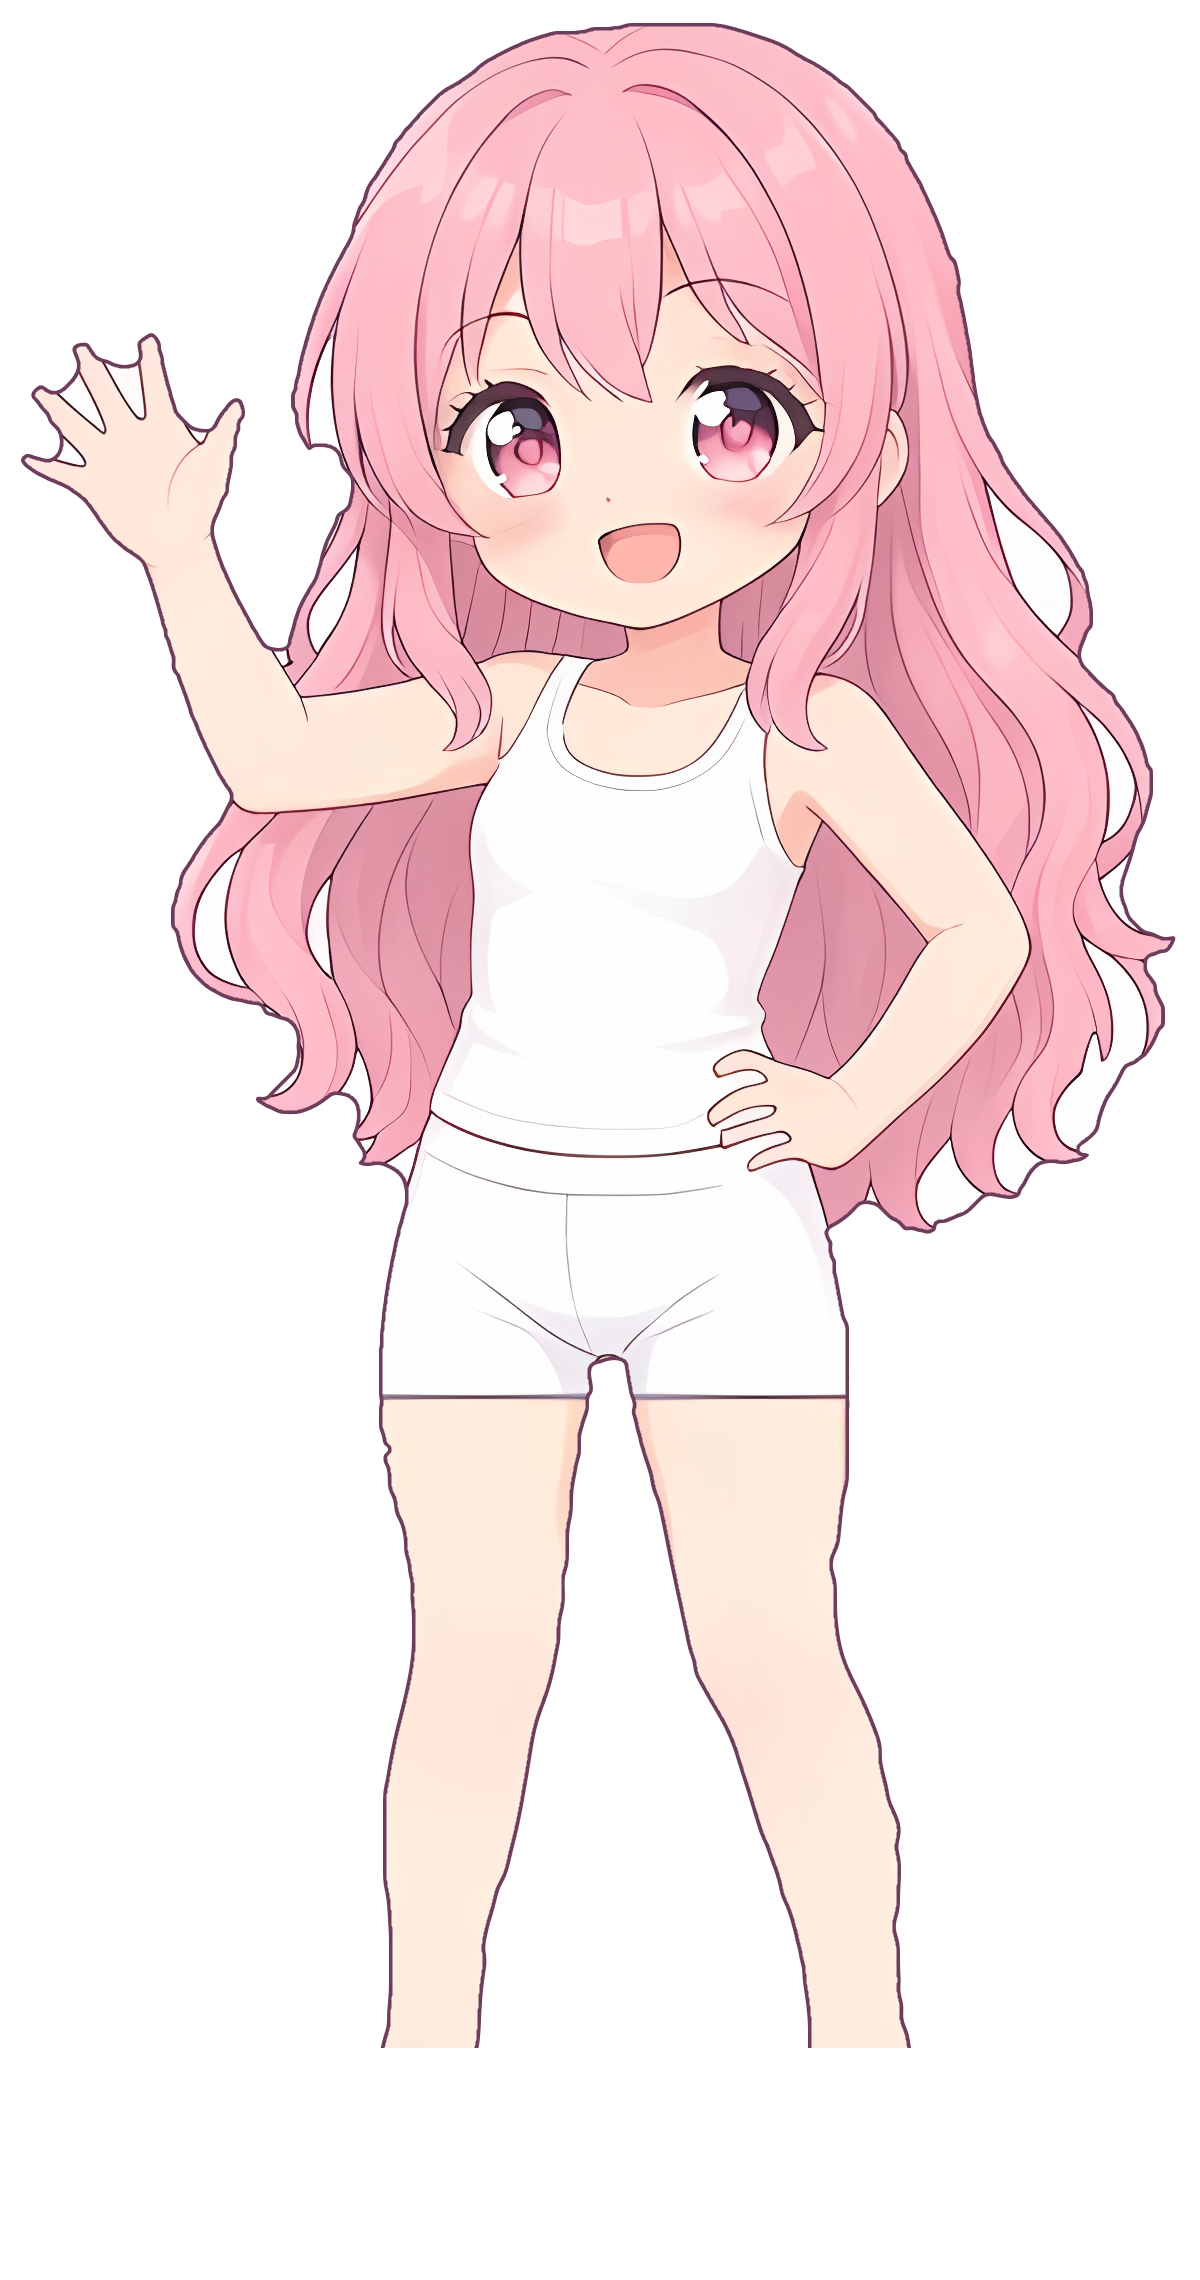
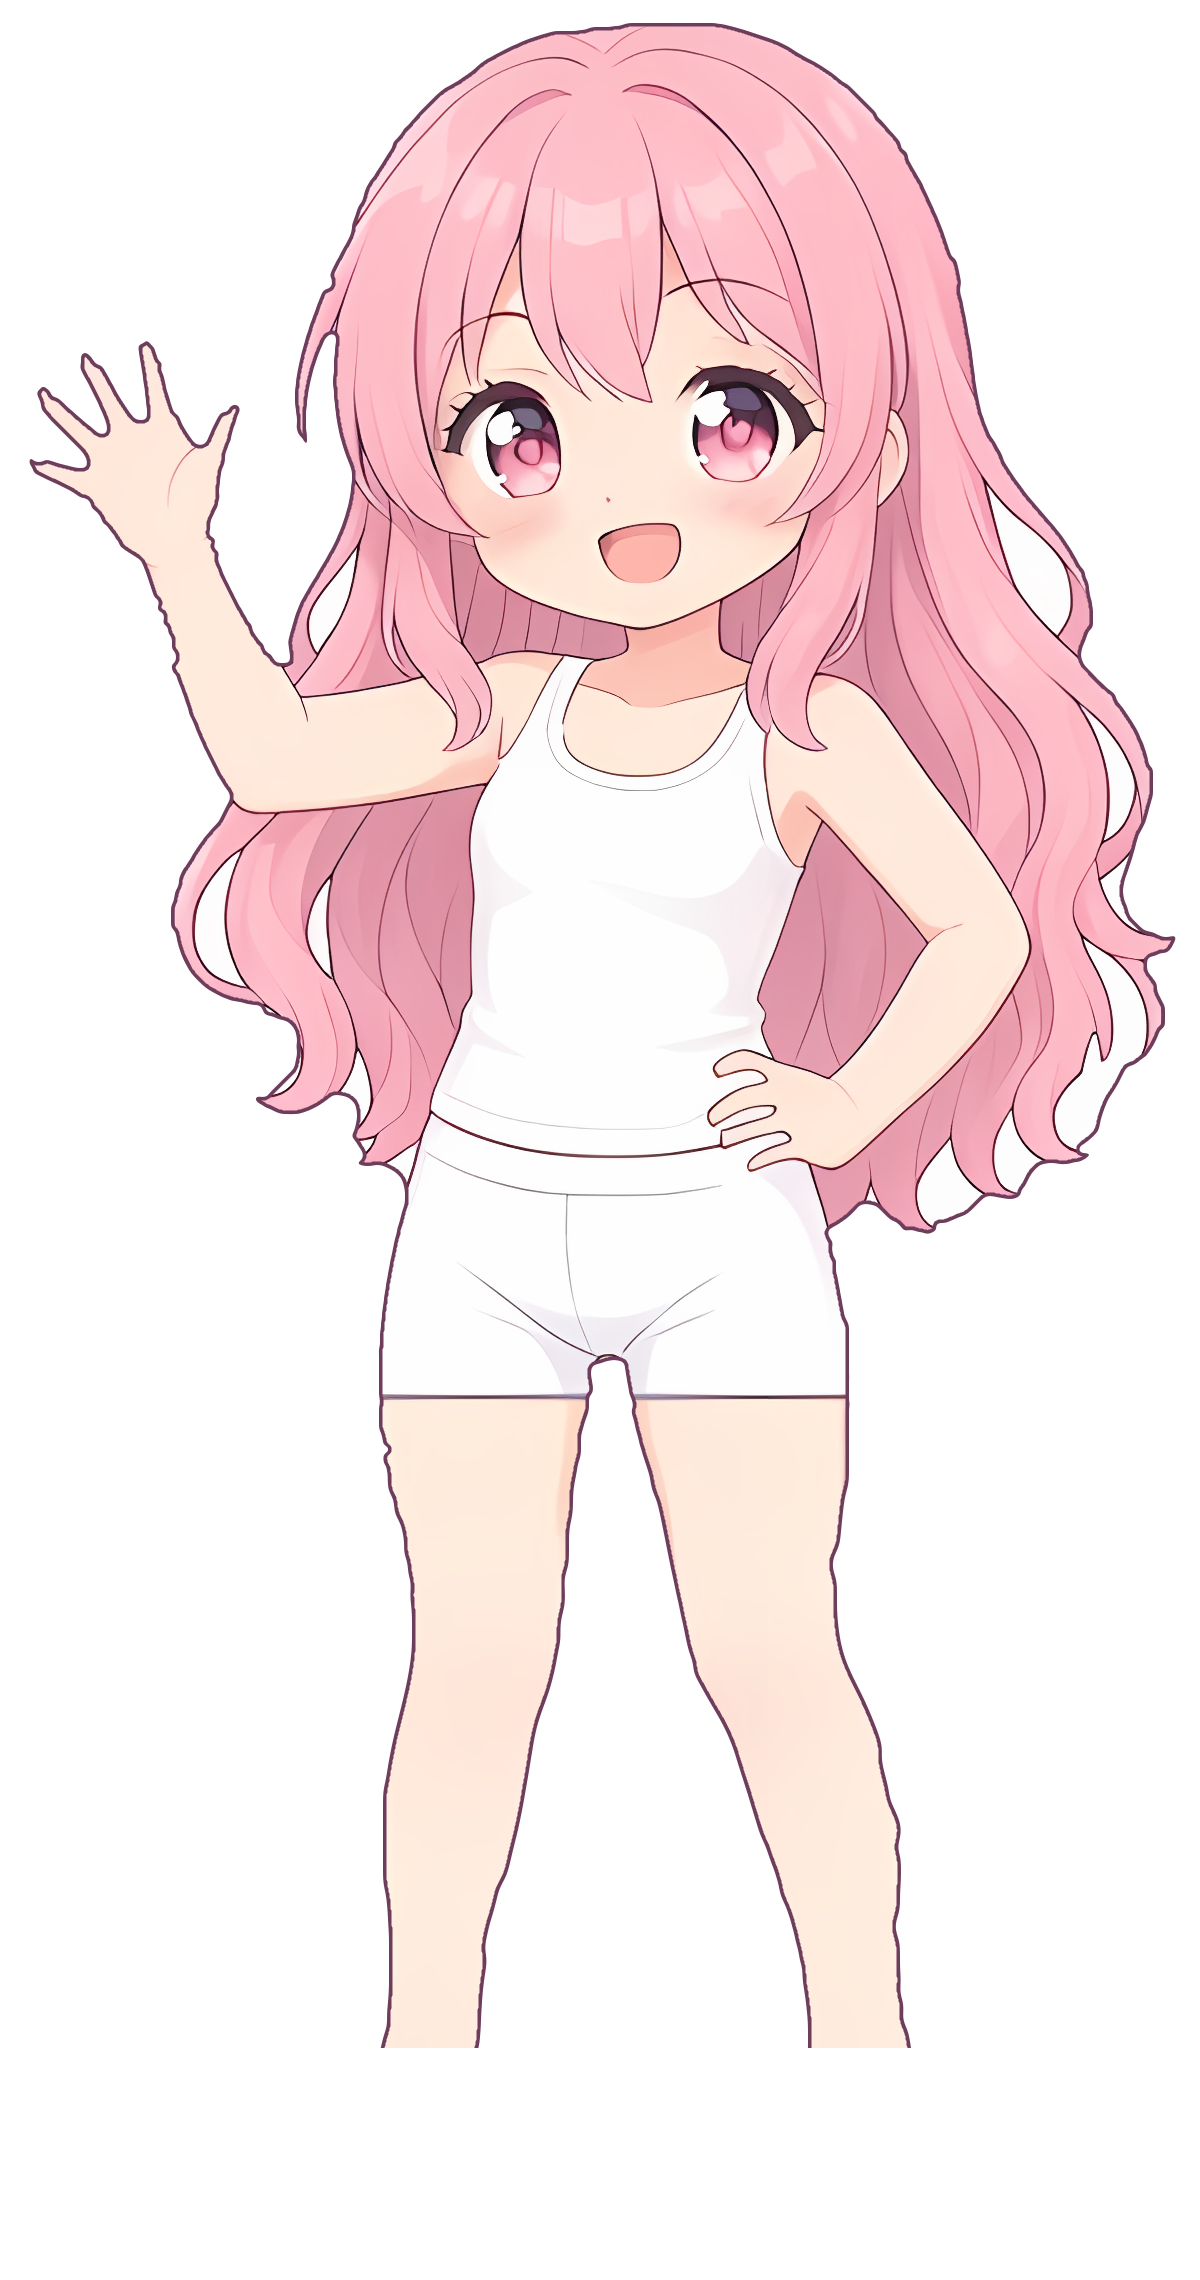
스티커: 흔드는 손 영역에 한정한 마스크로 손가락 사이 흰 배경 제거(흰 반바지 무변경)

diff --git a/tools/build_sticker_assets.py b/tools/build_sticker_assets.py
@@ -19,6 +19,7 @@ for d in (PUB,DATA): shutil.rmtree(d,ignore_errors=True)
 os.makedirs(PUB+'/x4'); os.makedirs(PUB+'/bg'); os.makedirs(DATA+'/parts'); os.makedirs(DATA+'/characters'); os.makedirs(DATA+'/backgrounds')
 L='4e40d8/'
 def load(f): return np.array(Image.open(SRC+f).convert('RGBA'))
+HAND_BOX=(0,70,120,165)   # 흔드는 손 영역(원본 몸 좌표)
 def process(arr,scale,name,solid=False,stroke=True,save=True,feetwhite=None,shrink=3,cut=None):
     """원본 배열 → 4배 선명 + 흰 테두리 제거 → 배치 크기의 RES 배로 저장. 반환: 저장 파일, 스테이지 w,h"""
     up=esr.up_rgba(arr).astype(np.uint8)
@@ -29,6 +30,8 @@ def process(arr,scale,name,solid=False,stroke=True,save=True,feetwhite=None,shri
     if cut is not None:   # 위로 솟은 뒤축 등 잘라냄: (x0,y0,x1,y1) 비율 선 위쪽, x0 오른쪽
         H_,W_=u.shape[:2]; X,Y=np.meshgrid(np.arange(W_)/W_,np.arange(H_)/H_)
         x0c,y0c,x1c,y1c=cut; lineY=y0c+(X-x0c)*(y1c-y0c)/(x1c-x0c); u=u.copy(); u[(X>x0c)&(Y<lineY)]=0
+    if feetwhite is not None:   # 흔드는 손 영역만(원본 몸 기준 x 0~120, y 70~165) 손가락 사이 흰 배경 제거
+        k=u.shape[0]/arr.shape[0]; u=rim.strip_white_box(u,tuple(int(v*k) for v in HAND_BOX))
     u=rim.defringe(u,shrink=shrink)
     if stroke: u=rim.restroke(u,smooth_from=None if feetwhite is None else int(feetwhite*u.shape[0]/arr.shape[0]))
     im=Image.fromarray(u)

diff --git a/tools/sticker_fit/rim.py b/tools/sticker_fit/rim.py
@@ -105,3 +105,11 @@ def strip_white_connected(u,y0=0,lo=228,sat=22):
     out=set(np.unique(lab[near&wh]))-{0}
     kill=np.isin(lab,list(out))
     u=u.copy(); u[kill]=0; return u
+def strip_white_box(u,box,lo=225,sat=26,near_px=10):
+    """box(x0,y0,x1,y1, 픽셀) 안에서만: 바깥(투명)에 near_px 이내로 닿는 흰 덩어리를 지운다(손가락 사이 흰 배경). box 밖은 손대지 않음."""
+    x0,y0,x1,y1=box; sub=u[y0:y1,x0:x1]
+    rgb=sub[...,:3].astype(int); a=sub[...,3]
+    wh=(rgb.min(-1)>=lo)&((rgb.max(-1)-rgb.min(-1))<=sat)&(a>0)
+    lab,n=ndimage.label(wh); near=ndimage.binary_dilation(a==0,iterations=near_px)
+    ids=set(np.unique(lab[near&wh]))-{0}
+    u=u.copy(); u[y0:y1,x0:x1][np.isin(lab,list(ids))]=0; return u
